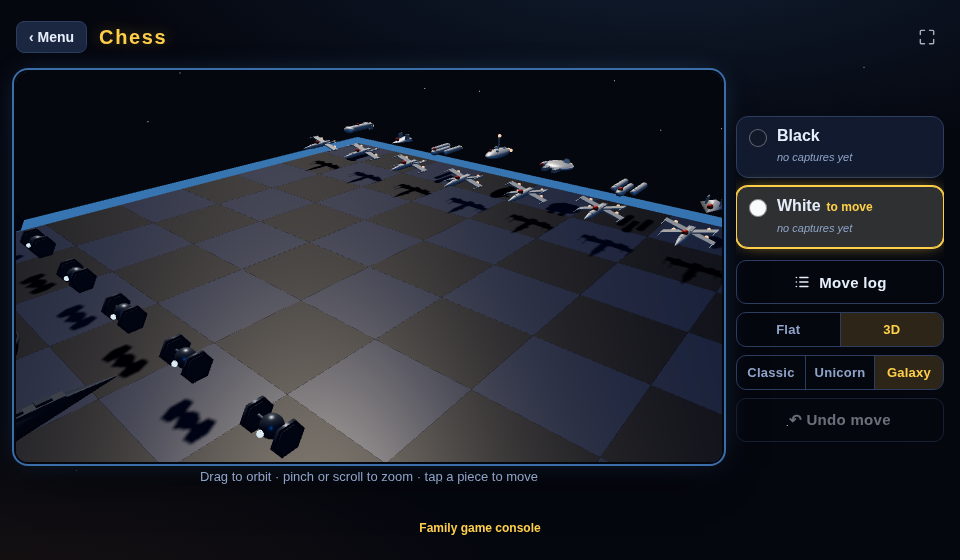
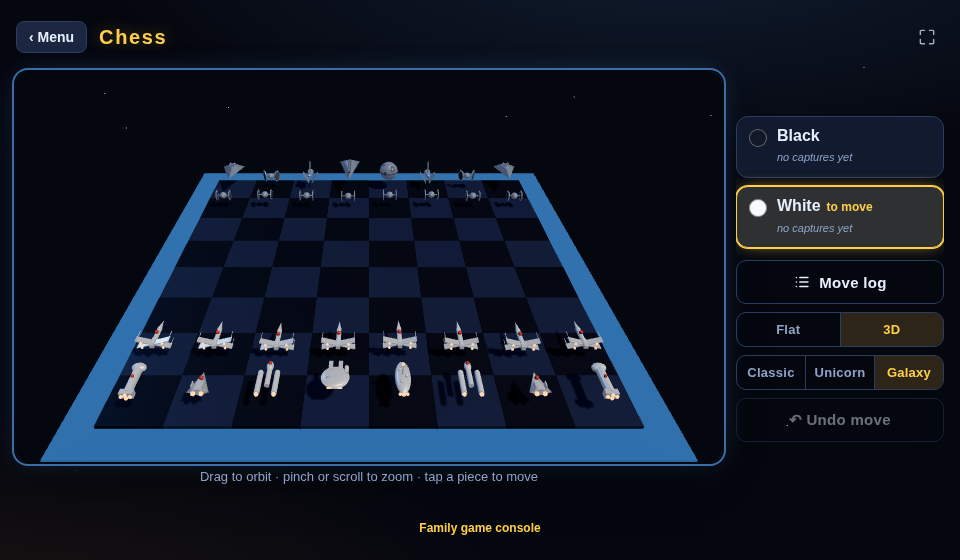
Chess 3D: rainbows & clouds for the unicorns, brighter Empire ships
Two scene upgrades by family request:

- UNICORN DREAM SKY: pastel rainbows (six half-torus bands) arch out
  of the ground behind each side of the board, and a seeded flock of
  puffy clouds drifts slowly around the scene (still under reduced
  motion). Fog pushed out so the sky actually reads.
- EMPIRE CONTRAST: the dark side's ships were melting into the dark
  space board. Imperial gunmetal is lighter now, the pale trim
  brighter, and all starship hulls get a faint self-glow (stronger on
  the dark side) so both fleets read clearly at night.

Claude-Session: https://claude.ai/code/session_01Pet5917XAbMAsbQM47tWg6

diff --git a/src/games/chess/components/three/ChessScene.ts b/src/games/chess/components/three/ChessScene.ts
@@ -44,6 +44,8 @@ export class ChessScene {
   private markGroup = new THREE.Group();
   private checkMat: THREE.MeshBasicMaterial | null = null;
   private tweens: Tween[] = [];
+  private clouds: THREE.Group[] = [];
+  private lastNow = 0;
   private raf = 0;
   private down: { x: number; y: number } | null = null;
   private resizeObs: ResizeObserver | null = null;
@@ -67,8 +69,9 @@ export class ChessScene {
     container.appendChild(this.renderer.domElement);
 
     this.scene.background = new THREE.Color(this.palette.background);
-    // Deep space keeps its fog further out so the starfield reads.
-    this.scene.fog = this.palette.stars
+    // Deep space and dream skies keep their fog further out so the backdrop
+    // (starfield / rainbows) actually reads.
+    this.scene.fog = this.palette.stars || this.palette.dream
       ? new THREE.Fog(this.palette.background, 20, 40)
       : new THREE.Fog(this.palette.background, 15, 28);
     if (this.palette.accent) {
@@ -111,6 +114,7 @@ export class ChessScene {
     this.buildLights();
     this.buildBoard();
     if (this.palette.stars) this.buildStars();
+    if (this.palette.dream) this.buildDreamSky();
     this.scene.add(this.markGroup);
 
     // Tap vs orbit: only fire a tap when the pointer barely moved.
@@ -192,12 +196,78 @@ export class ChessScene {
     this.scene.add(stars);
   }
 
+  /** A pastel rainbow arching out of the ground — six half-torus bands. */
+  private buildRainbow(x: number, z: number, ry: number, scale: number) {
+    const bands = ['#ff8f9f', '#ffb87a', '#ffe97a', '#93e6a4', '#8fc9ff', '#c9a0f5'];
+    const g = new THREE.Group();
+    bands.forEach((c, i) => {
+      const band = new THREE.Mesh(
+        new THREE.TorusGeometry(6.4 - i * 0.36, 0.17, 10, 48, Math.PI),
+        new THREE.MeshStandardMaterial({
+          color: c,
+          emissive: c,
+          emissiveIntensity: 0.5,
+          roughness: 0.6,
+          transparent: true,
+          opacity: 0.92,
+        }),
+      );
+      g.add(band);
+    });
+    g.position.set(x, 0, z);
+    g.rotation.y = ry;
+    g.scale.setScalar(scale);
+    this.scene.add(g);
+  }
+
+  /**
+   * The unicorn theme's dream sky: rainbows arching behind either side of the
+   * board and a flock of puffy clouds that drift slowly around it (seeded, so
+   * every visit looks the same; still under reduced motion).
+   */
+  private buildDreamSky() {
+    // One rainbow behind each camp, so both players get one in view.
+    this.buildRainbow(0, -14, 0.12, 1);
+    this.buildRainbow(4, 14.5, Math.PI - 0.2, 0.8);
+
+    let seed = 20260729;
+    const rand = () => ((seed = (seed * 1103515245 + 12345) & 0x7fffffff) / 0x7fffffff);
+    const cloudMat = new THREE.MeshStandardMaterial({
+      color: '#ffffff',
+      emissive: '#fff2fa',
+      emissiveIntensity: 0.32,
+      roughness: 1,
+    });
+    for (let i = 0; i < 9; i++) {
+      const cloud = new THREE.Group();
+      const puffs = 3 + Math.floor(rand() * 3);
+      for (let p = 0; p < puffs; p++) {
+        const r = 0.5 + rand() * 0.75;
+        const puff = new THREE.Mesh(new THREE.SphereGeometry(r, 14, 12), cloudMat);
+        puff.position.set((p - (puffs - 1) / 2) * r * 0.95, (rand() - 0.5) * 0.35, (rand() - 0.5) * 0.7);
+        puff.scale.y = 0.58;
+        cloud.add(puff);
+      }
+      const ang = rand() * Math.PI * 2;
+      const dist = 10.5 + rand() * 7;
+      cloud.position.set(Math.cos(ang) * dist, 2.4 + rand() * 4.6, Math.sin(ang) * dist);
+      cloud.userData.speed = (0.1 + rand() * 0.2) * (rand() < 0.5 ? 1 : -1);
+      this.clouds.push(cloud);
+      this.scene.add(cloud);
+    }
+  }
+
   // ── Procedural pieces (lathe-turned; knight is an extruded silhouette) ──
   private material(color: Color) {
+    const hex = color === 'w' ? this.palette.whitePiece : this.palette.blackPiece;
+    const ships = this.palette.pieceStyle === 'ships';
     return new THREE.MeshStandardMaterial({
-      color: color === 'w' ? this.palette.whitePiece : this.palette.blackPiece,
+      color: hex,
       roughness: this.palette.pieceRoughness,
-      metalness: this.palette.pieceStyle === 'ships' ? 0.5 : color === 'b' && !this.palette.accent ? 0.12 : 0.05,
+      metalness: ships ? 0.45 : color === 'b' && !this.palette.accent ? 0.12 : 0.05,
+      // Starships get a faint self-glow so hulls read against the night board
+      // — the dark side especially, which used to melt into the dark tiles.
+      ...(ships ? { emissive: new THREE.Color(hex), emissiveIntensity: color === 'b' ? 0.34 : 0.12 } : {}),
     });
   }
 
@@ -356,6 +426,17 @@ export class ChessScene {
     if (this.disposed) return;
     this.raf = requestAnimationFrame(this.loop);
     this.controls.update();
+    const dt = this.lastNow ? Math.min(0.05, (now - this.lastNow) / 1000) : 0;
+    this.lastNow = now;
+
+    // Dream-sky clouds drift gently around the board.
+    if (this.clouds.length > 0 && !this.opts.reducedMotion) {
+      for (const cloud of this.clouds) {
+        cloud.position.x += (cloud.userData.speed as number) * dt;
+        if (cloud.position.x > 19) cloud.position.x = -19;
+        if (cloud.position.x < -19) cloud.position.x = 19;
+      }
+    }
 
     for (let i = this.tweens.length - 1; i >= 0; i--) {
       const t = this.tweens[i];

diff --git a/src/games/chess/components/chessTheme.tsx b/src/games/chess/components/chessTheme.tsx
@@ -94,6 +94,8 @@ export interface ScenePalette {
   blackAccent?: string;
   /** Scatter a starfield around the board. */
   stars?: boolean;
+  /** A dream sky: pastel rainbows arching behind the board, drifting clouds. */
+  dream?: boolean;
   pieceRoughness: number;
 }
 
@@ -122,6 +124,7 @@ export const SCENE_PALETTES: Record<ChessThemeId, ScenePalette> = {
     blackPiece: '#cdb1f2', // Lavender pearl
     accent: '#e8b64c',
     pieceStyle: 'fantasy',
+    dream: true, // rainbows and clouds behind the board
     pieceRoughness: 0.22, // pearlier
   },
   galaxy: {
@@ -132,13 +135,13 @@ export const SCENE_PALETTES: Record<ChessThemeId, ScenePalette> = {
     edge: '#3b6ea8',
     edgeEmissive: 0.6,
     whitePiece: '#d9dee8', // rebel hull white
-    blackPiece: '#535e71', // imperial gunmetal
+    blackPiece: '#78859c', // imperial gunmetal — light enough to read on the dark board
     accent: '#e8eef7',
     pieceStyle: 'ships',
     whiteGlow: '#ff8a5c', // rebel engines burn warm
     blackGlow: '#8fd0ff', // imperial engines burn cold
     whiteAccent: '#e8543f', // red squadron stripes
-    blackAccent: '#9aa7bb', // pale imperial trim
+    blackAccent: '#d3deee', // pale imperial trim
     stars: true,
     pieceRoughness: 0.3,
   },
